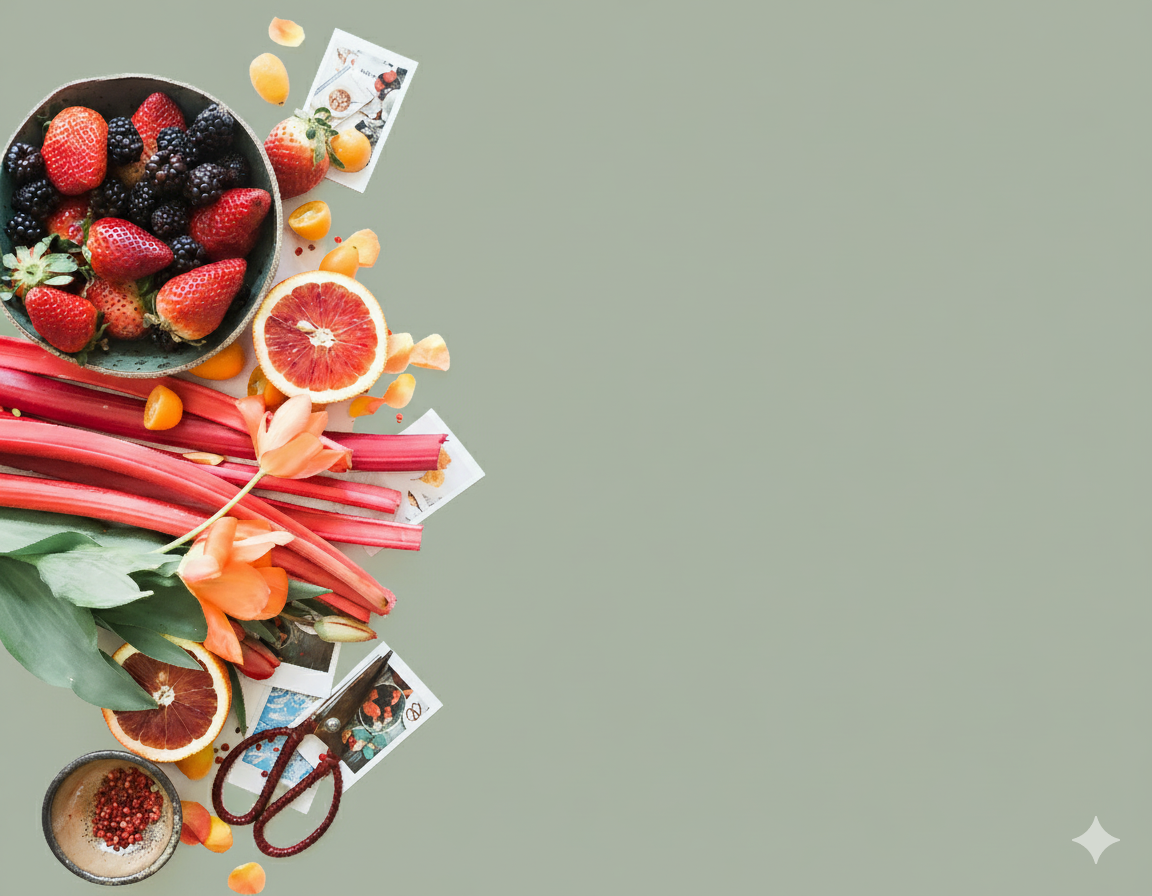
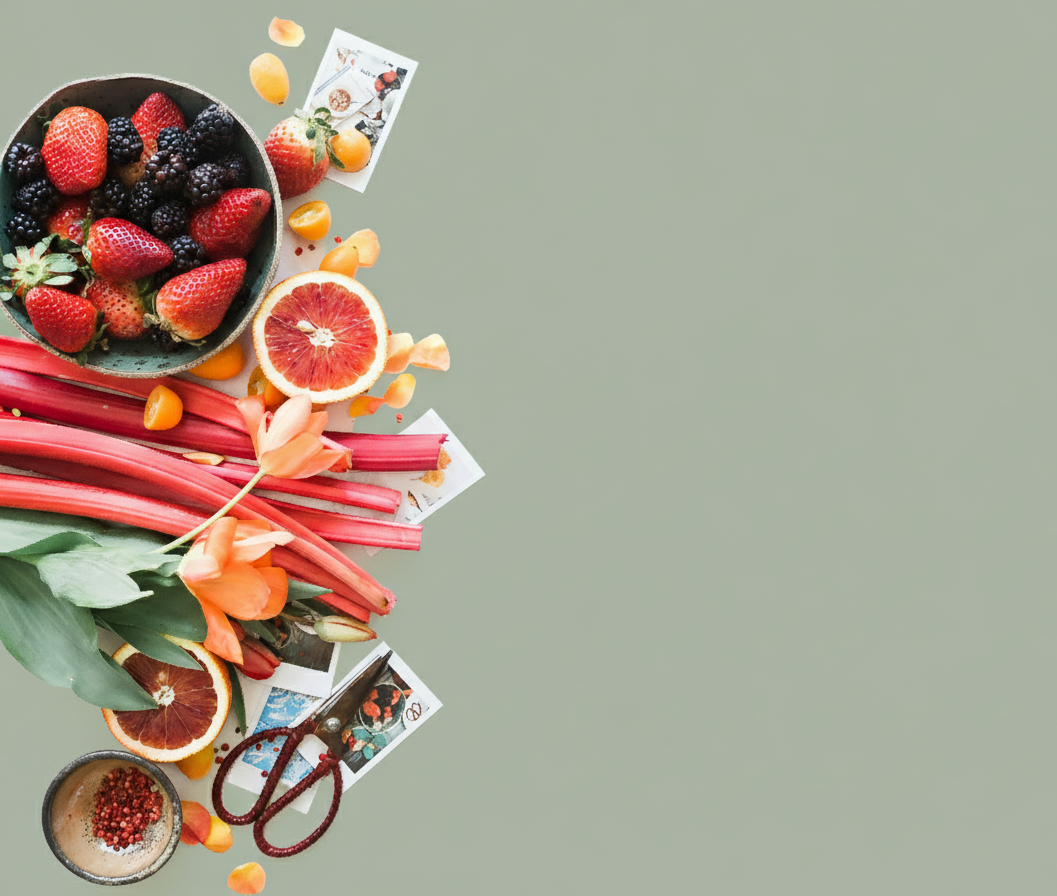
Update images and improve navbar and index page
Replaced Logo.png and hero.png with updated versions. Modified navbar.html to remove the 'Recipe Today' text and changed the collapse div ID for better Bootstrap compatibility. Updated index.html to use Bootstrap 5.3.8 and included Popper.js for improved frontend functionality.

Changed region(s): [[0.0, 0.0, 0.4683, 1.0], [0.9366, 0.9062, 0.9678, 0.9688]]

diff --git a/recipeApp/src/main/resources/templates/index.html b/recipeApp/src/main/resources/templates/index.html
@@ -4,7 +4,7 @@
     <meta charset="UTF-8">
     <meta name="viewport" content="width=device-width, initial-scale=1.0">
     <title>Recipe Today | Your Daily Dose of Delicious</title>
-    <link href="https://cdn.jsdelivr.net/npm/bootstrap@5.3.7/dist/css/bootstrap.min.css" rel="stylesheet" integrity="sha384-LN+7fdVzj6u52u30Kp6M/trliBMCMKTyK833zpbD+pXdCLuTusPj697FH4R/5mcr" crossorigin="anonymous">
+    <link href="https://cdn.jsdelivr.net/npm/bootstrap@5.3.8/dist/css/bootstrap.min.css" rel="stylesheet" integrity="sha384-sRIl4kxILFvY47J16cr9ZwB07vP4J8+LH7qKQnuqkuIAvNWLzeN8tE5YBujZqJLB" crossorigin="anonymous">
     <link rel="stylesheet" th:href="@{/style.css}">
 </head>
 <body>
@@ -47,6 +47,6 @@
     </div>
 </section>
 
-<script src="https://cdn.jsdelivr.net/npm/bootstrap@5.3.7/dist/js/bootstrap.bundle.min.js" integrity="sha384-7qAoOXltbVP82dhxHAUje59V5r2YsVfBafyUDxEdApLPmcdhBPg1DKg1ERo0BZlK" crossorigin="anonymous"></script>
-</body>
+<script src="https://cdn.jsdelivr.net/npm/@popperjs/core@2.11.8/dist/umd/popper.min.js" integrity="sha384-I7E8VVD/ismYTF4hNIPjVp/Zjvgyol6VFvRkX/vR+Vc4jQkC+hVqc2pM8ODewa9r" crossorigin="anonymous"></script>
+<script src="https://cdn.jsdelivr.net/npm/bootstrap@5.3.8/dist/js/bootstrap.min.js" integrity="sha384-G/EV+4j2dNv+tEPo3++6LCgdCROaejBqfUeNjuKAiuXbjrxilcCdDz6ZAVfHWe1Y" crossorigin="anonymous"></script></body>
 </html>

diff --git a/recipeApp/src/main/resources/templates/fragments/navbar.html b/recipeApp/src/main/resources/templates/fragments/navbar.html
@@ -9,14 +9,13 @@
         <div class="container-fluid">
             <a class="navbar-brand fs-3" th:href="@{/}">
                 <img th:src="@{/images/Logo.png}" alt="Recipe Today Logo" width="30" height="30" class="d-inline-block align-top me-2">
-                Recipe Today
             </a>
 
             <button class="navbar-toggler" type="button" data-bs-toggle="collapse" data-bs-target="#navbarNav" aria-controls="navbarNav" aria-expanded="false" aria-label="Toggle navigation">
                 <span class="navbar-toggler-icon"></span>
             </button>
 
-            <div class="collapse navbar-collapse" id="navbarNav">
+            <div class="collapse navbar-collapse" id="navbarSupportedContent">
                 <ul class="navbar-nav me-auto mb-2 mb-lg-0">
                     <li class="nav-item">
                         <a class="nav-link" th:href="@{/recipes}">All Recipes</a>
